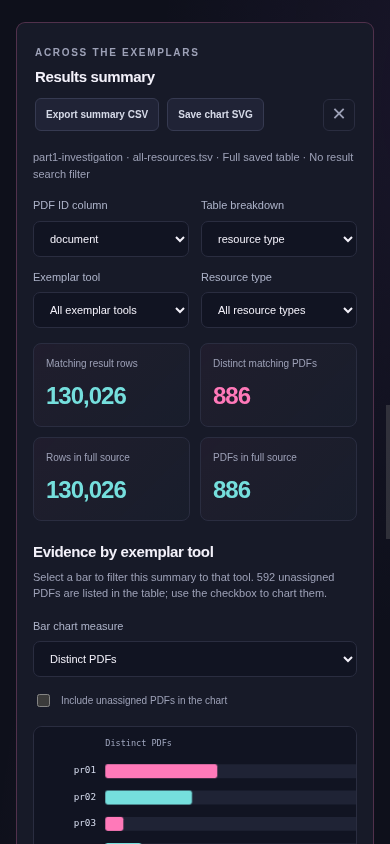
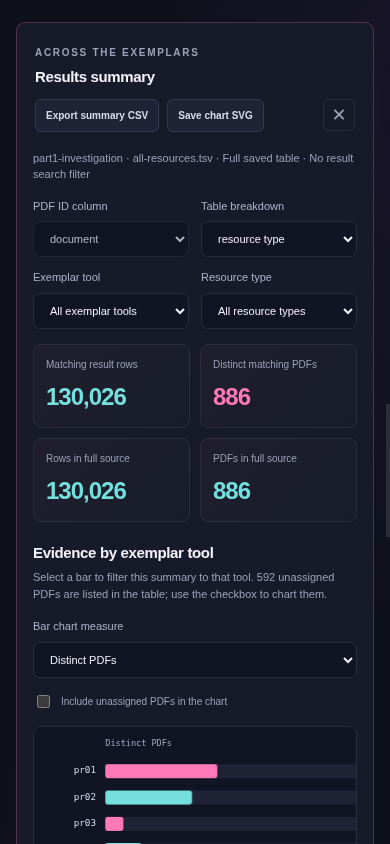
Fix summary generation with outdated servers and PDF ID selection

diff --git a/pdf-analyzer/app.js b/pdf-analyzer/app.js
@@ -177,8 +177,9 @@ function resetSummary() {
 }
 function configureSummary(headers) {
   state.resultHeaders=headers;
-  const document=headers.find(h=>['document','document_id','pdf','id'].includes(h))||'';
-  $('#summary-document').innerHTML='<option value="">Choose a PDF ID column…</option>'+headers.map(h=>`<option value="${esc(h)}">${esc(h)}</option>`).join('');$('#summary-document').value=document;
+  const candidates=['document','document_id','pdf','id'].filter(h=>headers.includes(h)),document=candidates[0]||'';
+  const documentColumns=candidates.length?candidates:headers;
+  $('#summary-document').innerHTML=(document?'':'<option value="">Choose a PDF ID column…</option>')+documentColumns.map(h=>`<option value="${esc(h)}">${esc(h)}</option>`).join('');$('#summary-document').value=document;$('#summary-document').disabled=candidates.length===1;
   const options=[{fields:[],label:'By tool · overall'}];
   if(headers.includes('resource_type')&&headers.includes('prefix'))options.push({fields:['resource_type','prefix'],label:'Resource type + prefix'});
   headers.filter(h=>h!==document).forEach(h=>options.push({fields:[h],label:h.replaceAll('_',' ')}));
@@ -200,6 +201,7 @@ async function generateSummary(scroll=false) {
   const query=summaryQuery();$('#summary-scope').textContent=`${state.job.label} · ${name} · Full saved table${query.get('q')?' · Result search: '+query.get('q'):' · No result search filter'}`;
   try {
     const data=await api(`/api/jobs/${id}/summary?${query}`);if(request!==state.summaryRequest||id!==state.job?.id||name!==$('#result-select').value||!state.summaryActive)return;
+    if(!Array.isArray(data.overview)||!Array.isArray(data.rows)||!Array.isArray(data.groups)||!Array.isArray(data.resourceTypes)||!data.counts)throw new Error('The running app server needs an update. Stop the Start PDF Analyzer task, start it again, then refresh this page.');
     state.summaryData=data;state.summaryExportQuery=query.toString();$('#summary-status').textContent='';$('#summary-content').classList.remove('hidden');$('#export-summary').disabled=false;$('#export-summary-chart').disabled=!data.overview.length;
     const selectedType=$('#summary-type').value;$('#summary-type').innerHTML='<option value="">All resource types</option>'+data.resourceTypes.map(t=>`<option value="${esc(t)}">${esc(t)}</option>`).join('');$('#summary-type').value=selectedType;
     const c=data.counts;$('#summary-counts').innerHTML=[['Matching result rows',c.matchedRows],['Distinct matching PDFs',c.matchedDocuments],['Rows in full source',c.sourceRows],['PDFs in full source',c.sourceDocuments]].map(([label,value])=>`<div><span>${label}</span><b>${number(value)}</b></div>`).join('');
@@ -207,7 +209,7 @@ async function generateSummary(scroll=false) {
     const columns=['tool','producer',...(data.groups.length?['breakdown']:[]),'rows','documents','exemplars','represented','coverage'];
     $('#summary-table').innerHTML=table(columns,data.rows.map(r=>`<tr>${columns.map(h=>`<td class="${h==='producer'?'summary-producer':h==='breakdown'?'mono summary-breakdown':'mono'}">${h==='tool'?`<button class="text-button" data-summary-tool="${esc(r.toolKey)}">${esc(r.tool)}</button>`:h==='breakdown'?r.values.map((v,i)=>`<span title="${esc(data.groups[i])}">${esc(v)||'<span class="muted-dash">(empty)</span>'}</span>`).join(' · '):h==='coverage'?r.coverage===null?'—':number(r.coverage)+'%':h==='producer'?esc(r[h]):number(r[h])}</td>`).join('')}</tr>`),{labels:{breakdown:data.groups.map(g=>g.replaceAll('_',' ').toUpperCase()).join(' / '),rows:'RESULT ROWS',documents:'DISTINCT PDFs',exemplars:'KNOWN EXEMPLARS',represented:'PDFs IN SOURCE',coverage:'OBSERVED COVERAGE'},empty:'No matching summary groups. Clear the result search or summary filters.'});
     pagination('#summary-pagination',data.total,data.offset,data.limit,'summary');renderSummaryChart();
-  }catch(error){if(request!==state.summaryRequest)return;state.summaryData=null;$('#summary-status').textContent=error.message;}
+  }catch(error){if(request!==state.summaryRequest)return;state.summaryData=null;$('#summary-content').classList.add('hidden');$('#export-summary').disabled=true;$('#export-summary-chart').disabled=true;$('#summary-status').textContent=error.message;}
 }
 function summaryChartSVG(data,metric) {
   const labels={documents:'Distinct PDFs',rows:'Result rows',coverage:'Observed coverage (%)'},rows=data.overview;

diff --git a/pdf-analyzer/server.py b/pdf-analyzer/server.py
@@ -24,6 +24,8 @@ import lab
 import inspection
 import summaries
 
+API_VERSION = 3
+
 ROOT, OBS, DATASET = lab.ROOT, lab.OBS, lab.DATASET
 STATIC = Path(__file__).resolve().parent
 RESULTS = OBS / 'part1-results'
@@ -371,7 +373,7 @@ def start_run(payload):
 
 
 class Handler(BaseHTTPRequestHandler):
-    server_version = 'PDFAnalyzer/2'
+    server_version = f'PDFAnalyzer/{API_VERSION}'
 
     def json(self, payload, status=200):
         self.body(json.dumps(payload).encode(), 'application/json; charset=utf-8', status)
@@ -399,7 +401,8 @@ class Handler(BaseHTTPRequestHandler):
         path, query = parsed.path, urllib.parse.parse_qs(parsed.query, keep_blank_values=True)
         try:
             if path == '/api/health':
-                return self.json({'app': 'pdf-analyzer', 'version': 2})
+                return self.json({'app': 'pdf-analyzer', 'version': API_VERSION,
+                                  'capabilities': ['pdf-inspection', 'result-summaries']})
             if path == '/api/dashboard':
                 return self.json(dashboard())
             if path == '/api/resources':
@@ -438,6 +441,8 @@ class Handler(BaseHTTPRequestHandler):
                     if query.get('export'):
                         return self.export(headers, filtered(rows, query), f'{job["id"]}-{Path(name).stem}.csv')
                     return self.json(page_table(headers, rows, query))
+                if len(parts) > 4:
+                    return self.json({'error': 'Run view not found'}, 404)
                 return self.json({**job_public(job), 'stdout': read_text(directory / 'stdout.log')[-100000:],
                                   'stderr': read_text(directory / 'stderr.log')[-40000:]})
             if path == '/api/script':
@@ -592,7 +597,6 @@ if __name__ == '__main__':
     parser.add_argument('--open', action='store_true', help='Open the lab in your browser')
     args = parser.parse_args()
     RUNS.mkdir(exist_ok=True)
-    load_jobs()
     url = f'http://127.0.0.1:{args.port}'
     try:
         server = ThreadingHTTPServer(('127.0.0.1', args.port), Handler)
@@ -601,15 +605,18 @@ if __name__ == '__main__':
         try:
             with urllib.request.urlopen(url + '/api/health', timeout=2) as response:
                 health = json.load(response)
-            if health.get('app') != 'pdf-analyzer' or health.get('version') != 2:
+            if health.get('app') != 'pdf-analyzer':
                 raise ValueError('Different application')
         except Exception:
             parser.error(f'Cannot start on port {args.port}: {error}. Choose another port with --port.')
+        if health.get('version') != API_VERSION:
+            parser.error(f'An older PDF Analyzer server is running at {url}. Stop the existing Start PDF Analyzer task and start it again to load the updated app.')
         print(f'PDF Analyzer is already running at {url}', flush=True)
         if args.open:
             import webbrowser
             webbrowser.open(url)
         raise SystemExit(0)
+    load_jobs()
     print(f'PDF Analyzer running at {url}', flush=True)
     if args.open:
         import webbrowser

diff --git a/pdf-analyzer/test_server.py b/pdf-analyzer/test_server.py
@@ -264,10 +264,27 @@ class LabTests(unittest.TestCase):
                 self.assertEqual(filtered['counts']['sourceRows'], 122)
                 self.assertEqual(self.request(url+'&group=invalid')[0], 400)
                 self.assertEqual(self.request(url+'&documentColumn=missing')[0], 400)
+                status, invalid_column = self.request(url+'&documentColumn=prefix')
+                self.assertEqual(status, 400)
+                self.assertIn('Choose document', invalid_column['error'])
                 self.assertEqual(self.request(url+'&tool=unknown')[0], 400)
                 self.assertEqual(self.request('/api/jobs/'+identifier+'/summary?name=../results.tsv')[0], 404)
             finally:
                 server.JOBS.pop(identifier)
+
+    def test_health_identifies_summary_support_and_unknown_run_views_fail(self):
+        status, health = self.request('/api/health')
+        self.assertEqual(status, 200)
+        self.assertEqual(health['version'], 3)
+        self.assertIn('result-summaries', health['capabilities'])
+        identifier = 'unknown-view-fixture'
+        server.JOBS[identifier] = {'id': identifier, 'directory': str(self.obs)}
+        try:
+            status, data = self.request('/api/jobs/'+identifier+'/unsupported-view')
+            self.assertEqual(status, 404)
+            self.assertEqual(data['error'], 'Run view not found')
+        finally:
+            server.JOBS.pop(identifier)
 
     def test_summary_cache_refreshes_when_results_or_exemplars_change(self):
         with tempfile.TemporaryDirectory() as directory:

diff --git a/pdf-analyzer/summaries.py b/pdf-analyzer/summaries.py
@@ -23,6 +23,10 @@ def summarize(path, toolsets, labels, document_column='', groups=(), query='', r
             document_column = next((h for h in ('document', 'document_id', 'pdf', 'id') if h in headers), '')
         if not document_column or document_column not in headers:
             raise ValueError('Choose a column containing PDF document IDs to summarize across exemplars. Tables of totals without document IDs cannot be mapped to exemplars.')
+        if document_column in ('prefix', 'resource_type', 'resource_name', 'number', 'object', 'reference', 'scope'):
+            suggested = next((h for h in ('document', 'document_id', 'pdf', 'id') if h in headers), '')
+            if suggested:
+                raise ValueError(f'Choose {suggested} as the PDF ID column. {document_column} contains resource data, not PDF document IDs.')
         if len(groups) > 2 or any(g not in headers for g in groups) or len(set(groups)) != len(groups):
             raise ValueError('Choose up to two different result columns for the breakdown')
         if resource_type and 'resource_type' not in headers:

diff --git a/pdf-analyzer/README.md b/pdf-analyzer/README.md
@@ -6,7 +6,7 @@ A local COS 721 PDF investigation app with a Vice City inspired synthwave design
 
 In VS Code, open the Command Palette (`Ctrl+Shift+P`), choose **Tasks: Run Task**, then **Start PDF Analyzer**. The task starts the backend and opens your browser at <http://127.0.0.1:8766>. Keep the task running while using the app.
 
-The backend can also be launched with `python3 pdf-analyzer/server.py --open`. Change the port with `--port` if 8766 is occupied. Required tools are `bash`, `qpdf` with JSON v2 support, `pdfinfo`, `pdftotext`, `awk`, `sed`, `grep`, `find`, `sort`, `uniq`, and `column`. Your environment already provides these. Restart the server after changing its Python files; refreshing the browser alone does not reload the backend.
+The backend can also be launched with `python3 pdf-analyzer/server.py --open`. Change the port with `--port` if 8766 is occupied. Required tools are `bash`, `qpdf` with JSON v2 support, `pdfinfo`, `pdftotext`, `awk`, `sed`, `grep`, `find`, `sort`, `uniq`, and `column`. Your environment already provides these. Restart the server after changing its Python files; refreshing the browser alone does not reload the backend. If an older backend is already running, the launcher tells you to stop the existing task and start it again. Reusing an existing server leaves saved run records unchanged.
 
 ## Investigate without terminal commands
 
@@ -60,7 +60,7 @@ The script library includes `part1_resources.sh`, `test_part1.sh`, the vector/ba
 
 1. Open **Script studio**, finish a run or select an existing run in **Run history**.
 2. In **Investigation results**, choose the detailed table, such as `all-resources.tsv`, then click **Generate summary**. Summary generation reads every row in that saved table, including rows outside the displayed results page.
-3. Choose the **PDF ID column** and **Table breakdown**. Tables using `document`, `document_id`, `pdf`, or `id` are detected automatically. Choose **By tool · overall**, a single result column, or **Resource type + prefix** when those fields are present.
+3. Choose the **PDF ID column** and **Table breakdown**. Tables using `document`, `document_id`, `pdf`, or `id` are detected automatically. When one such column is present, it is selected and fixed so resource prefixes cannot accidentally be treated as PDF IDs. Choose **By tool · overall**, a single result column, or **Resource type + prefix** when those fields are present.
 4. Filter by exemplar tool or resource type. The results search box also filters the summary; clear it to summarize the full table. Summary filters leave the raw result table available above.
 5. Switch the chart measure between **Distinct PDFs**, **Result rows**, and **Observed coverage (%)**. Click a bar or a tool in the summary table to filter to that tool; click it again to clear the tool filter. Bars also respond to Enter/Space.
 6. **Export summary CSV** exports every matching summary group, including groups outside the summary page. **Save chart SVG** exports the current graph as a standalone image suitable for an assignment; its SVG description records the run, table, filters and counts.
@@ -98,10 +98,10 @@ Resource tables page through every matching row and export the complete filtered
 
 ## Validation
 
-Run `python3 -m unittest discover -s pdf-analyzer -v`. The fourteen tests use an isolated fixture dataset and check source object references, local resource scopes and numbering gaps, API filtering/exports, script execution and persistence, cancellation, local request validation, and separation of single-document test results. They also cover strings offsets and search, exact tags, compressed objects/content, decoded streams, custom metadata and XMP, index limits, and preservation of the original PDF. Summary tests cover full-table aggregation, distinct-PDF counts, filters, coverage denominators, missing IDs, overlapping membership, complete exports, and cache refresh when results or exemplar sets change.
+Run `python3 -m unittest discover -s pdf-analyzer -v`. The fifteen tests use an isolated fixture dataset and check source object references, local resource scopes and numbering gaps, API filtering/exports, script execution and persistence, cancellation, local request validation, and separation of single-document test results. They also cover strings offsets and search, exact tags, compressed objects/content, decoded streams, custom metadata and XMP, index limits, and preservation of the original PDF. Summary tests cover full-table aggregation, distinct-PDF counts, filters, coverage denominators, missing IDs, overlapping membership, complete exports, and cache refresh when results or exemplar sets change. They also check capability reporting and rejection of unknown run views and resource columns used as PDF IDs.
 
 Browser workflow checks also covered the real dataset, supplied test script, generated-script execution, original PDF inspection, results tables, the 15-tool matrix, mobile layout, and reduced motion.
 
 The strings/metadata browser checks cover direct document shortcuts, highlighted searches, exact tags, pagination, exports, stream decoding, page text, switching documents during requests, existing resource/numbering views, and mobile layout.
 
-Summary browser checks use the real 130,026-row saved run and cover the three chart measures, bar interactions, filters, breakdowns, pagination, CSV/SVG exports, table switching, unsupported tables, stale responses, empty searches, mobile layout and reduced motion. Its aggregates were also checked against the supplied CSV.
+Summary browser checks use the real 130,026-row saved run and cover the three chart measures, bar interactions, filters, breakdowns, pagination, CSV/SVG exports, table switching, unsupported tables, stale responses, empty searches, mobile layout and reduced motion. Its aggregates were also checked against the supplied CSV. The corrected workflow was verified on the default port 8766, including clear handling of an outdated backend response and automatic PDF ID selection.

diff --git a/README.md b/README.md
@@ -60,4 +60,4 @@ The script guide references `assign2.pdf`; add your assignment brief locally if 
 python3 -m unittest discover -s pdf-analyzer -v
 ```
 
-The fourteen tests use an isolated fixture dataset and check original references, resource scopes, filtering and exports, script execution, cancellation, persistence, result isolation, strings and compressed content, custom metadata/XMP, preservation of the original PDF, and full-table exemplar summaries.
+The fifteen tests use an isolated fixture dataset and check original references, resource scopes, filtering and exports, script execution, cancellation, persistence, result isolation, strings and compressed content, custom metadata/XMP, preservation of the original PDF, and full-table exemplar summaries.
